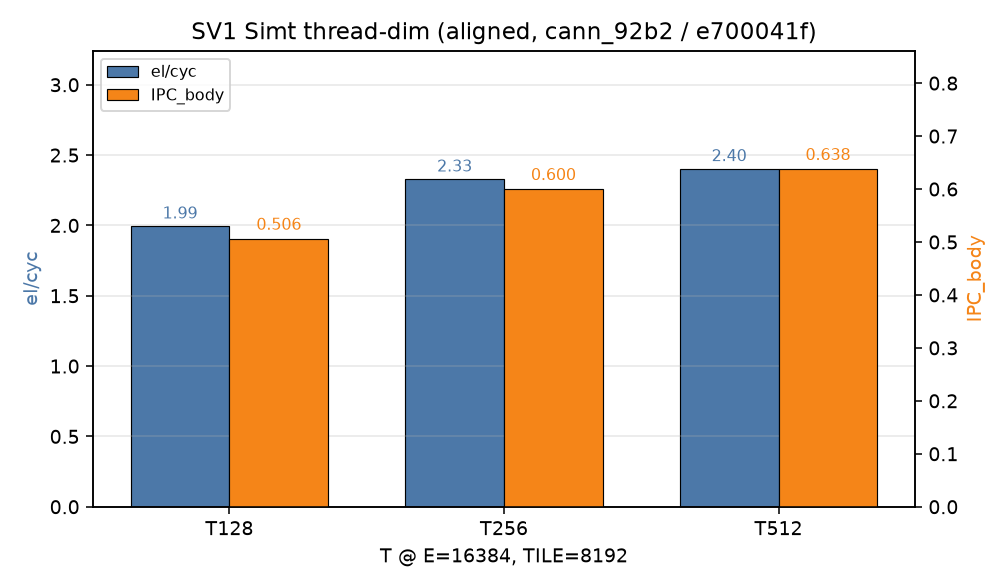
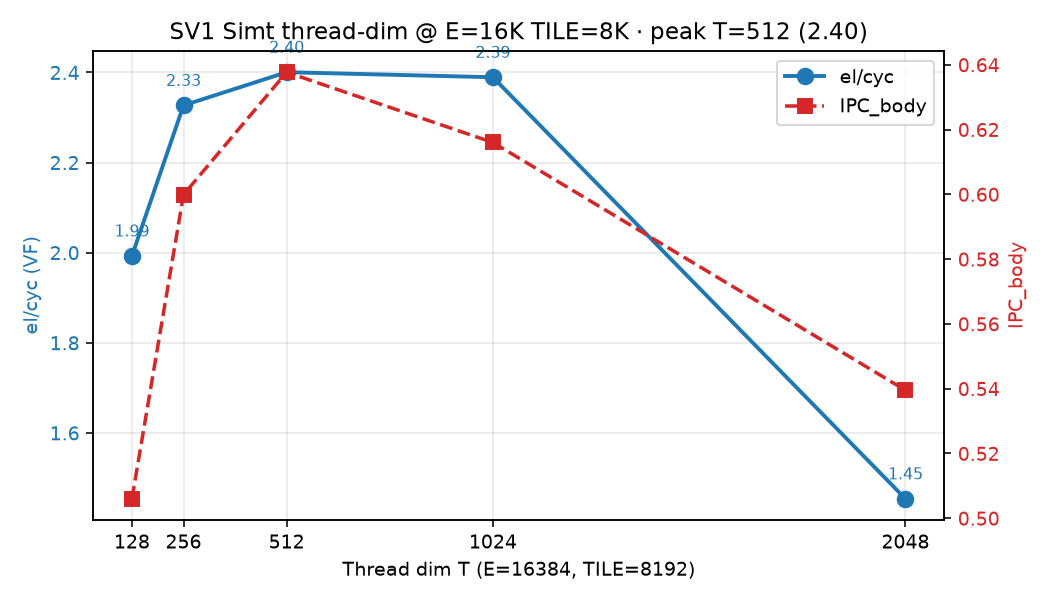
docs(sv1): extend thread-dim T1024/T2048; drop ILP16 4.3; slim verdict
- §4.2 TILE8K ladder now T128..T2048; turning point at T512 (2.40) then drop at T2048 (1.45)
- Remove orphan ILP16 §4.3; renumber footnotes; one-line ccec-unroll forward note
- Verdict: stock Simt 2.40 (~30%/8) vs SoftLib A-only 10.79 (~67%/16) vs SIMD 31.51 (~72%/44)

diff --git a/benches/sv1/ANALYSIS.md b/benches/sv1/ANALYSIS.md
@@ -21,7 +21,7 @@ Kernel: one TileLang file `sv1_stream_eltwise.py` (`vf_region` + `ST_VF_MODE`); 
 |------|---------|
 | Problem size | **E = 16K** f32 elements |
 | Tile sizes | **2K / 4K / 8K / 16K** @ fixed **E=16K** (both Simt and SIMD) |
-| SIMT threads | **128 / 256 / 512** @ fixed **E=16K, TILE=8192** (not untiled) |
+| SIMT threads | **128 / 256 / 512 / 1024 / 2048** @ fixed **E=16K, TILE=8192** (not untiled) |
 | VMI / handwritten SIMD DSL | **VL=64**, **same E=16K + TILE 2K/4K/8K/16K** (per-tile MTE stream) |
 
 **Footprint note (8K tile):** one f32 array @ 8K = **32 KB**; A+B = **64 KB**; A+B+C = **96 KB** — can fit UB / approach whole MRF (128 KB). After the tile ladder we **focus on 8K** as the compare hub vs SIMD.
@@ -75,7 +75,7 @@ From that same plot footer (authoritative mid-body IPC @ **E=16K TILE=8K**):
 
 Stock pack under tip e700041f is wider-vector (LDS:FADD:STS ≈ **256:512:128** in the aligned harvest — float4-class). Lead framing still uses Lok’s **LD.64 A+B ≈ 8 el/cyc** roof for % columns (same A+B dual-load story).
 
-**Lead framing (Lok):** LD.64 A+B theory ≈ **8 el/cyc**. Aligned stock Simt lands **~2.40–2.45 el/cyc** → about **~30%** of that ~8 roof under **cann_92b2 + e700041f**. (Prior cann_91b3 untiled T512 **3.71** / ILP16 **4.08** are older pins — see §4.3.) Alternate 1R+1W@16 is a footnote in §4.4.
+**Lead framing (Lok):** LD.64 A+B theory ≈ **8 el/cyc**. Aligned stock Simt lands **~2.40–2.45 el/cyc** → about **~30%** of that ~8 roof under **cann_92b2 + e700041f**. Thread ladder **peaks @ T512** then drops @ T2048 (§4.2). Alternate 1R+1W@16 is a footnote in §4.3.
 
 Data: `data/SUMMARY_sv1_aligned_e16k_tile8k.tsv` (+ `.json`, `NOTES_sv1_aligned_e16k_tile8k.md`).
 
@@ -98,31 +98,25 @@ Data: `data/SUMMARY_sv1_aligned_e16k_tile8k.tsv` (+ `.json`, `NOTES_sv1_aligned_
 |------|-------:|-------:|---------:|--------------------:|
 | TILE8192 @ T128 | 8221 | **1.99** | 0.506 | 25% |
 | TILE8192 @ T256 | 7041 | **2.33** | 0.600 | 29% |
-| **TILE8192 @ T512** | 6825 | **2.40** | **0.638** | **30%** |
+| **TILE8192 @ T512** | **6825** | **2.40** | **0.638** | **30%** |
+| TILE8192 @ T1024 | 6857 | **2.39** | 0.616 | 30% |
+| TILE8192 @ T2048 | 11270 | **1.45** | 0.540 | 18% |
 
 ![Thread vs IPC/el](plots/sv1_thread_vs_ipc_el.png)
 
 ![Simt Body4 IPC TILE8K](plots/sv1_simt_e16k_tile8k_body4_ex_ipc_30cyc.png)
 
-**Point:** more threads raise stock Simt el/cyc on the **8K tile**; best aligned stock is **TILE8192 @ T512 = 2.40**.
+**Point:** el/cyc is **not monotonic**. It rises 128→256→**512 (peak 2.40)**, stays flat at **T1024 (2.39)**, then **drops hard at T2048 (1.45)**. Turning point ≈ **T512** on this TILE=8K stock schedule. Body4 plot remains the **TILE8K@T512** capture (IPC_body **0.638**).
 
-**Body4 plot:** `plots/sv1_simt_e16k_tile8k_body4_ex_ipc_30cyc.png` is the **aligned TILE8K@T512** Body4 capture under cann_92b2. Aligned **IPC_body = 0.638** also in `SUMMARY_sv1_aligned_e16k_tile8k.tsv`. (Legacy `sv1_simt_e16k_body4_ex_ipc_30cyc.png` = prior untiled — do not use as SoT.)
 
-### 4.3 ILP16 @ T128 (schedule sensitivity — prior pin)
+**Forward (not run):** later try **T128/T256 fully unroll** and let **ccec** schedule, then compare vs hand/manual — do not treat as SoT until measured.
 
-| Case | el/cyc | % of LD.64 A+B (~8) | Status |
-|------|-------:|--------------------:|--------|
-| ILP16 @ T128 | **4.08** | **51%** | **Prior untiled / older pin — not re-run under align** |
 
-![ILP16 timeline](plots/sv1_ilp16_T128_timeline_ipc_el.png)
-
-**Point:** historical hand ILP16 at T128 beat **older** stock untiled T512 (**4.08** vs **3.71**). That claim is **not** restated against aligned TILE8K@T512 **2.40** until ILP16 is re-measured under cann_92b2 + e700041f.
-
-### 4.4 Footnote — alternate roof only (do not mix into §4.1–4.3)
+### 4.3 Footnote — alternate roof only (do not mix into §4.1–4.2)
 
 Prior pack docs also used **1R+1W @ 128 B each → 16 el/cyc**. Against that roof: aligned TILE8K@T512 ≈ **15%**. Lead framing for Simt stock stays **~8**; keep **16** only here.
 
-### 4.5 Side note: LD.32
+### 4.4 Side note: LD.32
 
 - Theory: LD.32 can do **128 B/cyc**, but **too many instructions / hard to schedule**.
 - For LD.32 A+B (dual load on one R port), **theory best ~8 el/cyc**.
@@ -133,7 +127,7 @@ Prior pack docs also used **1R+1W @ 128 B each → 16 el/cyc**. Against that roo
 - SoftLib A-only LDS.b32 contig T128: LDS-window **101 B/cyc (79% of 128)**, LDS-window elems **25.3**; whole-VF elems **4.54** — see `/workspace/st_out_cce_vadds_const/reports/`.
 - SoftLib A+B LDS.b32 contig T128: **~52 B/cyc** (~41% of 128) from LDS width BW report.
 
-### 4.6 SoftLib LDS.b32 / LDS.b64 BW — PURE port isolation (2026-10-17)
+### 4.5 SoftLib LDS.b32 / LDS.b64 BW — PURE port isolation (2026-10-17)
 
 **SoT:** `/workspace/st_out_cce_lds_bw_confirm/reports/LD32_LD64_BW_CONFIRM.md` (pto-b10, Ascend950PR_9599, E=8192 T=128).
 
@@ -173,15 +167,14 @@ SoftLib CCE A-only LDS.b32+const, E=8192 T=128 (reports under `/workspace/st_out
 
 ### Verdict (this SV1 case)
 
-| Path | Measured | Roof framing | % of roof |
-|------|----------|--------------|----------:|
-| **SIMD DSL VL=64 (TILE8K@E16K)** | **29.26 el/cyc** overall VF; mid-body **~34.1** | theory rooftop **~44** (plot derived **42.67**) | **~66%** overall · mid **~80%** of 42.67 |
-| **Simt aligned stock (TILE8K@T512)** | **2.40** el/cyc | LD.64 A+B **~8** | **~30%** |
-| same Simt vs alt roof | 2.40 | 1R+1W@128B **16** | **~15%** |
-| CCE hand (A-only LDS window) | **101 B/cyc** | 128 B | **79%** window BW |
-| CCE manual T128 whole-VF | **9.29** el/cyc | T1024 **9.89** / LDS-win **25.3** | **~94%** of T1024 · **~37%** of LDS-win roof |
+| Path | Absolute el/cyc | Roof | Utilization |
+|------|----------------:|------|------------:|
+| **1. Current SIMT lowering** (stock TileLang, aligned best hub) | **2.40** (TILE8192 @ T512; thread peak — T1024 2.39 / T2048 1.45) | LD.64 A+B **~8** | **~30%** |
+| **2. SoftLib / hand reschedule best** | **10.79** (A-only LDS.b32+const, T256 `loadall_barrier`; T512 10.29 · T1024 9.89 · T128 hand 9.29) | A-only **~16** | **~67%** of 16 (**label: A-only — not A+B**) |
+| **3. SIMD best** (handwritten DSL VL=64 @ E=16K) | **31.51** (TILE16384; TILE8K hub **29.26**) | theory rooftop **~44** | **~72%** of 44 (TILE8K **~66%**) |
 
-**Bottom line:** SIMD DSL tiled @ **E=16K TILE=8K** delivers **29.26 el/cyc** overall VF (**~66% of theory rooftop ~44**). Aligned Simt stock (**TILE=8192 @ T=512**) is **2.40 el/cyc** — about **30%** of the **~8** LD.64 A+B theory (**~15%** on the 16 el/cyc 1R+1W roof). Matched-TILE head-to-head: SIMD **29.26** vs Simt **2.40** (~**12×**). CCE hand work shows LDS BW *can* approach the 128 B roof on A-only windows (~79%); manual T128 schedule reaches **9.29** el/cyc (**~94%** of T1024) but **MI-off is worse** — need more warps for the whole-VF roof, not just a better MI order.
+**Bottom line:** stock Simt TILE8K peaks at **T512 = 2.40 el/cyc (~30% of ~8)** and turns down by T2048. SoftLib hand A-only can reach **10.79 (~67% of 16)** — different problem (A-only). SIMD tiled best is **31.51 el/cyc (~72% of ~44)**; matched TILE8K hub SIMD **29.26** vs Simt **2.40** (~**12×**).
+
 
 ---
 

diff --git a/benches/sv1/data/NOTES_sv1_aligned_e16k_tile8k.md b/benches/sv1/data/NOTES_sv1_aligned_e16k_tile8k.md
@@ -60,3 +60,16 @@ Compare point: **Simt TILE=8192 @ T512 = 2.4006 el/cyc** vs **SIMD E=16384 = 31.
 
 ## Mix note (codegen)
 New tip: LDS:FADD:STS ≈ 256:512:128 (vs old 512:512:256 .64). Consistent with float4 / wider vector default on e700041f — higher LDS width but lower el/cyc in this tight-add schedule.
+
+## §4.2 extension — T=1024 / T=2048 (2026-10-17 17:40–17:41 Asia/Hong_Kong)
+
+Same OUT `/tmp/sv1_aligned_e16k_tile8k_20261017`, same pins (cann_92b2 / e700041f / Ascend950PR_9599 / ST_VF_MODE=simt-asc). Script: `oneshot_extend_T1024_2048.sh`.
+
+| T | VF_cyc | el/cyc | IPC_body | us | status |
+|---|--------|--------|----------|-----|--------|
+| 1024 | 6857 | **2.3894** | 0.6160 | 8.1 | PASS |
+| 2048 | 11270 | **1.4538** | 0.5395 | 10.55 | PASS |
+
+**Turning point:** at E=16K TILE=8K, el/cyc rises 128→256→**512 (2.40 peak)**, then **flat/slight drop @1024 (2.39)**, then **sharp drop @2048 (1.45)**. Not monotonic beyond T512.
+
+Full ladder (TILE=8192): T128 **1.99** · T256 **2.33** · T512 **2.40** · T1024 **2.39** · T2048 **1.45**.
